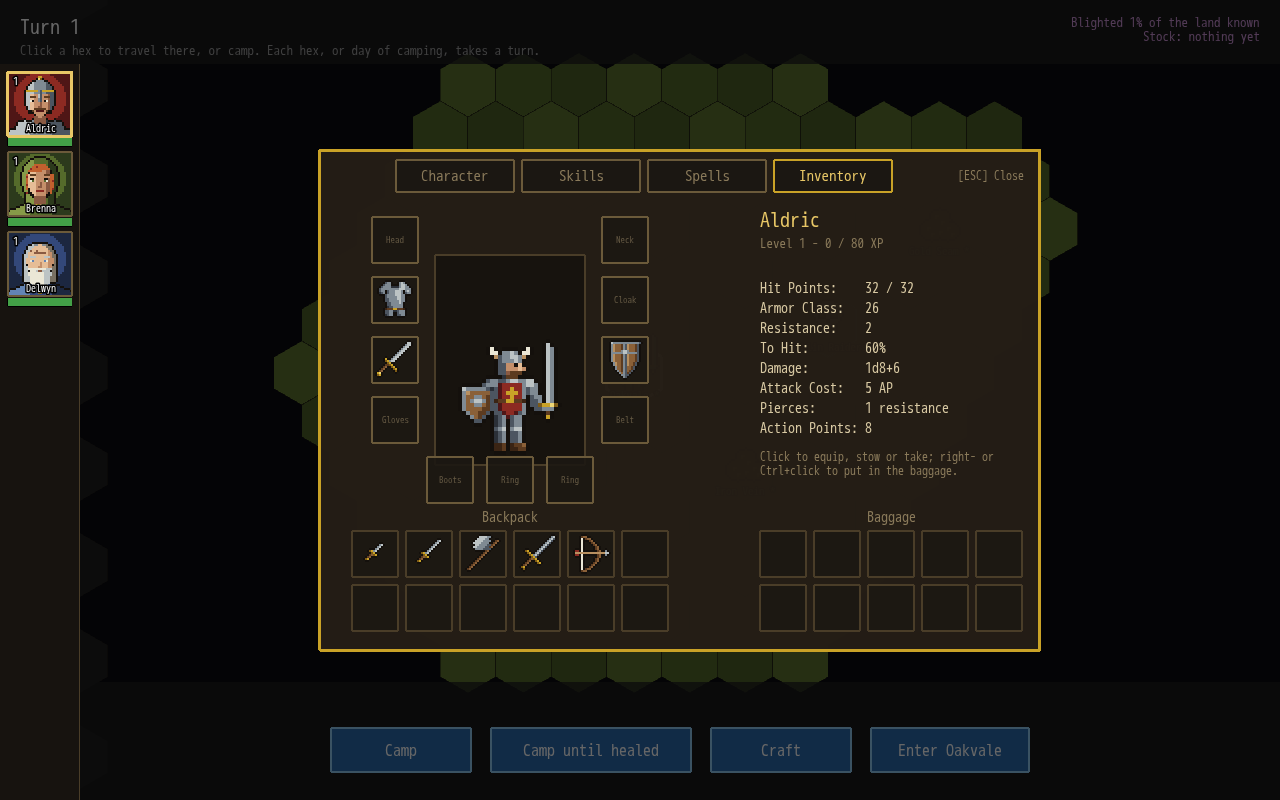
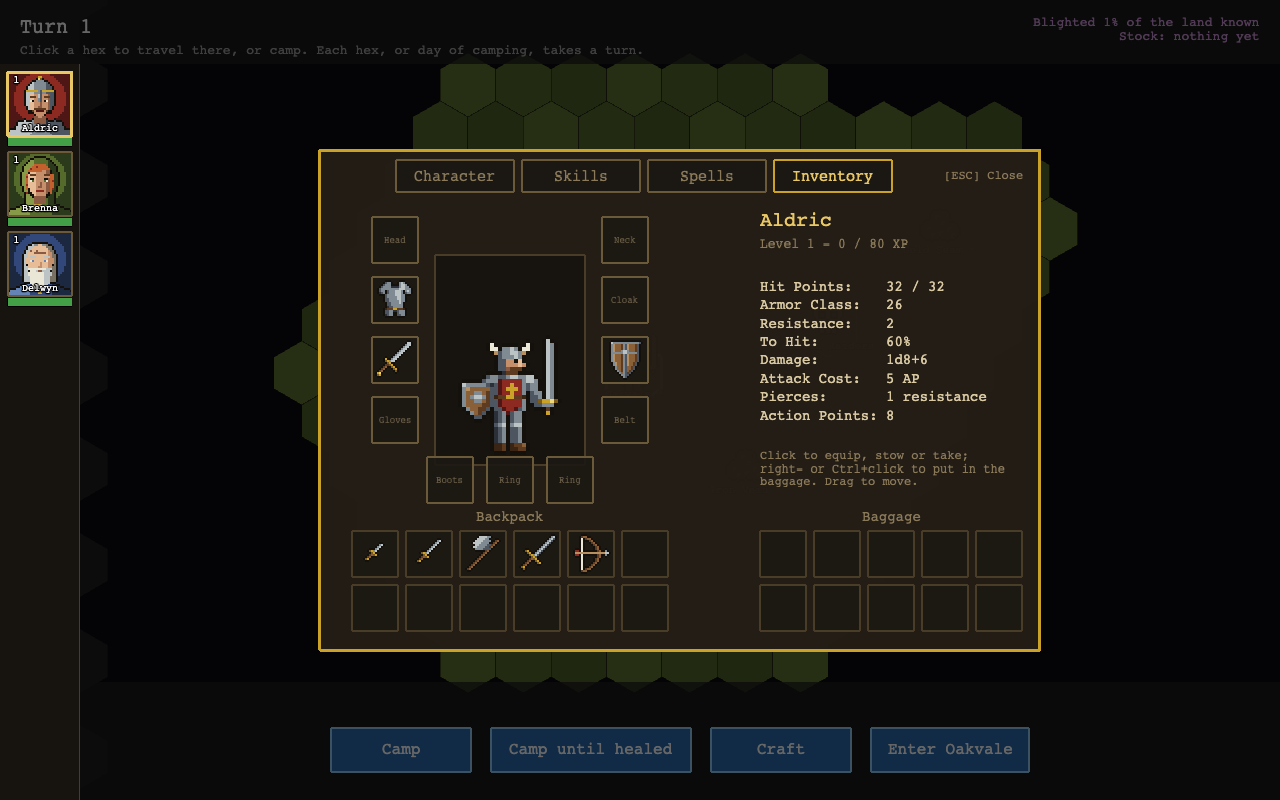
Step 04: docs for drag, pan and heal cursor

diff --git a/src/scenes/BattleScene.ts b/src/scenes/BattleScene.ts
@@ -1055,7 +1055,8 @@ export class BattleScene extends Phaser.Scene {
   /**
    * Shows what a click on the hovered hex would do: an arrow to where the
    * selected unit would walk, and red on it and the foe it would go for, with
-   * the cursor to match (crossed swords, faded when the AP can't cover a strike; a green cross for a friendly spell).
+   * the cursor to match (crossed swords, faded when the AP can't cover a
+   * strike; a green cross for a friendly spell).
    */
   private refreshHover(): void {
     this.hoverMarks.clear()

diff --git a/CLAUDE.md b/CLAUDE.md
@@ -111,7 +111,7 @@ Scenes are `Boot` → `Menu` → `Party` ⇄ `Creation` → `World` ⇄ `Battle`
 
 The party's portraits run down the left of `World`, `Battle` and `Inventory` alike (`PartyColumn`, placed by `partyPanel.ts`), so they seem to stay put under the panel. One member is the active one, marked in gold: in battle the selected unit, on the world map only the member a panel opens for. A click on a portrait makes its member active and a click on the active member's opens its panel (`portraitClick`); in battle a member that cannot be selected (spent, fallen, or during the enemy's turn) has its panel opened at once. A click on a portrait beside the open panel turns the panel to that member. `Menu` is an overlay over `World` or `Battle` (Esc). Both are told which scene to resume by their `resume` scene data; overlays pause the scene under them and resume it on close.
 
-`BattleScene` is a view over the engine: it turns clicks into `Action`s, calls `engine.step`, and plays back the returned events. It must not decide outcomes. Every battle is seeded, by the page's address or else at random, the enemy's RNG with the seed plus one, so that any battle can be saved and replayed from its log. A click on a foe always means a weapon attack; a spell is cast with the Cast button (M), shown for a unit with magic, which opens a list of its spells (`spellMenu.ts`), each greyed when it cannot be cast now and picked by a click or its number; the spell then asks for its target even when there is only one (`targeting` holds what the next board click picks a target for), and hovering an area's centre outlines the area and shows the odds on every unit it would touch, allies included. Nameplates show each unit's statuses as coloured letters beside the hit point bar. Scenes use Phaser's `RESIZE` scale mode, so each one positions everything in a `layout()` method that reruns on resize; the game is held at a minimum of 840×560 (`MIN_GAME_SIZE` in `src/main.ts`), below which the page scrolls. `World` and `Battle` lay their map, board, log and buttons out to the right of the party's column (`PARTY_PANEL_W`).
+`BattleScene` is a view over the engine: it turns clicks into `Action`s, calls `engine.step`, and plays back the returned events. It must not decide outcomes. Every battle is seeded, by the page's address or else at random, the enemy's RNG with the seed plus one, so that any battle can be saved and replayed from its log. A click on a foe always means a weapon attack; a spell is cast with the Cast button (M), shown for a unit with magic, which opens a list of its spells (`spellMenu.ts`), each greyed when it cannot be cast now and picked by a click or its number; the spell then asks for its target even when there is only one (`targeting` holds what the next board click picks a target for), and hovering an area's centre outlines the area and shows the odds on every unit it would touch, allies included. The pointer over a valid target is the crossed swords for a weapon attack or hostile spell, or a green cross for a friendly one (`spellCursor`, `CURSORS.heal` in `cursors.ts`). Nameplates show each unit's statuses as coloured letters beside the hit point bar. Scenes use Phaser's `RESIZE` scale mode, so each one positions everything in a `layout()` method that reruns on resize; the game is held at a minimum of 840×560 (`MIN_GAME_SIZE` in `src/main.ts`), below which the page scrolls. `World` and `Battle` lay their map, board, log and buttons out to the right of the party's column (`PARTY_PANEL_W`).
 
 Scene logic that can be expressed without Phaser is pulled into sibling helper modules, and new logic should follow suit: `eventSchedule.ts` (timing of event playback), `battleEffects.ts` (how a blow, a shot and each spell look and when they land: `attackLook`, `SPELL_LOOKS`, `impactMs`, which the schedule holds later events for and the sounds time their outcome by), `boardGeometry.ts` (hex ↔ screen, for a `BoardLayout`: the battlefield's is squashed to look like a floor, the world map's is flat with smaller hexes), `attackPlan.ts` (what clicking a foe does), `battleSetup.ts` (which encounter and threat a `Battle` start asks for: a monster location's, or else the data's), `scrollingLog.ts`, `slotScroll.ts` (which rows of the ground pile the inventory shows), `gearDrag.ts` (where an item dragged in the inventory may be dropped and which change of gear a drop makes), `mapScroll.ts` (where the world map sits on screen for the party to be in view or as a drag panned it, and when a press has moved far enough to be a drag), `partyPanel.ts` (where the party's portraits sit and what a click on one does), `draftInfo.ts` (the lines a hover shows of a draft), `encampmentView.ts` (where the encampment screen draws each facility, and with which frame of its sprite), `gearCompare.ts` (the trading post's and crafting screen's words for an item's stats and what a craft changes, attacks a turn included), `worldEvents.ts` (the world map's words for what a turn brought), `hexInfo.ts` (what the world map's info panel tells of the hovered hex, only what the fog lets the player know), `perkTree.ts` (where the nodes of the perk tree and the spell tree sit, built from the perks' own `branch`, `requires` and `school`, and how each stands for a character or, in creation, for a draft), `spellMenu.ts` (the battle's spell list and the words of aiming a spell), `clicks.ts` (what counts as a right-click), `sounds.ts` (which sounds an event triggers), `audioSettings.ts` (volume levels, saved to `localStorage`), `cursors.ts` (the pointer cursors, as inline SVG), `seed.ts` (the seed in the page's address), `debugCommands.ts` (the debug console's commands), `unitLook.ts` (the names of the sprite atlas's frames, animations and points, and which sprites are laid over a hero's body for what it holds). Four helpers do import Phaser, each the game objects of something several scenes draw, with no logic of its own: `PartyColumn.ts` (the party's column, shared by the three scenes that show it), `UnitFigure.ts` (a unit's body with what it holds drawn over it, animated as one: the battle's units, the world map's party and the character panel's doll), `PerkTreeView.ts` (a tree's nodes, lines and strip, the perk tree's or the spell tree's, a spell's node edged in its school's colour, drawn by the character panel and by creation, each of which says what a click on a node does) and `panelButton.ts` (the framed button of the party screen and creation).
 

diff --git a/docs/manual/README.md b/docs/manual/README.md
@@ -110,6 +110,8 @@ The world map is a large board of hexes, many screens wide, and the view scrolls
 
 Click a hex to travel there. Hovering over a hex first shows the route, and a panel at the top right tells what you know of it: what stands there, its blight (as you last saw it, if it is out of sight), whether the blight is gaining or receding there, how many days away it is, and your heroes' levels and hit points on the party's own hex. The party walks one hex per turn and stops early if something important happens on the way, such as monsters coming into view, a site you hold falling under threat, or monsters standing in the road. Routes avoid known monster lairs unless the lair is where you are going.
 
+The map is larger than the window. It follows the party as it travels, but you can **drag** it with the mouse to look elsewhere; it stops at the map's edges, and a short click still travels. The view stays where you left it until the party next sets out, or you press **Home** to bring it back to the party.
+
 ### Fog of war
 
 Black hexes have never been seen. The party sees 5 hexes around it, the encampment 6, a resource you hold 2, and a watchtower 8. Land you have seen but cannot see now is drawn under a veil, showing the state it was in when you last saw it. Once you have spotted a monster lair it stays on your map. Whatever lies at the heart of the blight is as hidden as the rest, until you explore far enough to find it.
@@ -192,6 +194,7 @@ This tab lists the spells the hero knows and the mana they are carrying. On the 
 The paper doll shows what the hero wears: head, neck, body, cloak, both hands, gloves, belt, boots and two rings. Below it is the backpack.
 
 - **Click** a backpack item to equip it, or click a worn item to stow it.
+- **Drag** an item to move it: from the backpack onto a slot to wear it, from a slot back to the backpack to stow it, and between the backpack and the baggage (or the ground in battle). Drop it somewhere that does not fit and it returns to where it came from. **Esc** cancels a drag.
 - On the world map, the right-hand grid is the party's shared **baggage**, which has no size limit. Click an item there to take it. **Right-click** (or Ctrl+click) an item to put it in the baggage. This is how you pass items between heroes.
 - In battle, the right-hand grid is the **ground** under the hero. Right-click to drop an item, and click to pick one up.
 - A two-handed weapon (the bow, the greatsword) and an off-hand item cannot be held together. Equipping one stows the other.
@@ -277,6 +280,8 @@ Press **I** to open the inventory for the selected hero. Equipping, stowing, dro
 | 1–9 | Pick a spell from the open list |
 | I / C / S | Inventory / Character / Skills panel |
 | Esc | Close the spell list, cancel aiming, or open the menu |
+
+While aiming a spell the pointer is crossed swords over a valid target of an attacking spell, and a green cross over a valid target of a healing or protective one.
 
 ### Victory and defeat
 

diff --git a/docs/implementation-plans/ui-feedback-drag-pan-cursor/04-docs-and-final-pass.md b/docs/implementation-plans/ui-feedback-drag-pan-cursor/04-docs-and-final-pass.md
@@ -29,3 +29,10 @@ Run the game (`npm run dev`, `?seed=` for a repeatable battle) and check, record
 - [ ] One commit; index status and hash updated.
 
 ## Execution record
+
+### Step 04 record (engineer)
+- CLAUDE.md: steps 02 and 03 had already covered pan, Home, drag and `gearDrag.ts`; added only the cursor note (`spellCursor`, `CURSORS.heal`) to the BattleScene paragraph.
+- Manual: world map pan and Home, inventory drag (and Esc), the aiming cursors. There is no world-map key table, so Home is in the prose; the battle key table has no Home. Only `panel-inventory.png` showed outdated text (the hint, now "Drag to move."); `npm run manual:screenshots` re-encoded every image, so the others were reverted and only that one kept.
+- `refreshHover` doc comment re-wrapped (step 01 review note).
+- Cursor check: the SVG from `healCursor()` rendered at 16, 24 and 32 px on three backgrounds (scratchpad `heal-cursor.png`): reads as a green-edged white-cored cross; at 16 px green is mostly the outline.
+- Manual check items 1 to 3 were NOT done by hand in a dev server; they rest on the step 02/03 browser tests. Item 4: `npm test` 797 passed, `npm run test:browser` 66 passed.

diff --git a/docs/implementation-plans/ui-feedback-drag-pan-cursor/index.md b/docs/implementation-plans/ui-feedback-drag-pan-cursor/index.md
@@ -61,7 +61,7 @@ Produced by step 03 in `src/character/character.ts`: `equipFromBackpack(characte
 | 01 | [Healing cursor](01-healing-cursor.md) | Friendly-target spells show a green cross over a valid target; hostile spells and weapons keep the swords | none | done (0216092) |
 | 02 | [World map drag-to-pan and Home](02-world-map-pan.md) | Dragging pans the map; a short press still travels; Home recentres | none | done (9fe243d) |
 | 03 | [Inventory drag and drop](03-inventory-drag-drop.md) | Items drag between backpack, equipment and ground/baggage; clicks act on release | 02 (for `pressMoved`/`DRAG_THRESHOLD_PX`) | done (4c0dcb6) |
-| 04 | [Docs and final pass](04-docs-and-final-pass.md) | CLAUDE.md and the manual describe the changes; one manual check of all three | 01, 02, 03 | pending |
+| 04 | [Docs and final pass](04-docs-and-final-pass.md) | CLAUDE.md and the manual describe the changes; one manual check of all three | 01, 02, 03 | done (a533798) |
 
 ## Execution order
 

diff --git a/docs/features/ui-feedback-drag-pan-cursor.md b/docs/features/ui-feedback-drag-pan-cursor.md
@@ -50,3 +50,4 @@ All answered 2026-10-31 (see decision log).
 
 - Step 01: review round 1 clean (sonnet) at ec196d8; non-blocking: a long comment line in BattleScene refreshHover (re-wrap in step 04)
 - Step 02: review round 1 clean (opus) at 7403674; three non-blocking edge cases (release past threshold, Home mid-press, Home page scroll) fixed in 8ee7620 with browser tests; no re-review (non-blocking, covered by overall review)
+- Step 03: review round 1 clean (opus) at f54113d, incl. 75k-move fuzz (no loss/duplication); non-blocking stale-drag-after-unreported-release fixed in 53f636f with browser test, plus two test gaps filled
